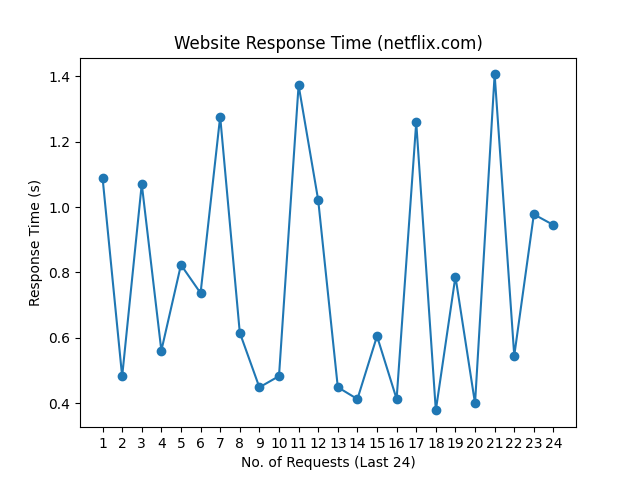
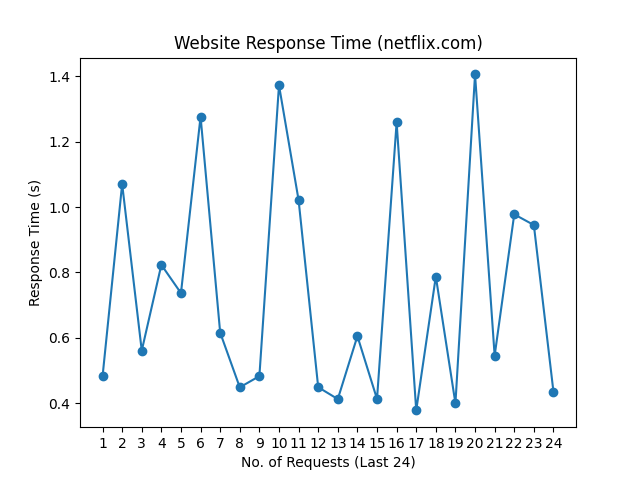
update README.md, history and graph

Changed region(s): [[0.1562, 0.125, 0.875, 0.875]]

diff --git a/README.md b/README.md
@@ -1,10 +1,10 @@
 # Web Monitoring
 
-Last Checked: 12/02/2024 09:00
+Last Checked: 13/02/2024 09:00
 
 | Website | Response Time (s) | Status | Avg Uptime (%) |
 |---------|-------------------|--------|----------------|
 | www.thiswebsiteisdown.net | 0 <br> <img src="graph/thiswebsiteisdown.net.png" alt="Graph" width="200" height="200">  | ❌ Down | 0.00 |
-| www.netflix.com | 0.945224 <br> <img src="graph/netflix.com.png" alt="Graph" width="200" height="200">  | ✅ Up | 100.00 |
-| www.google.com | 0.088514 <br> <img src="graph/google.com.png" alt="Graph" width="200" height="200">  | ✅ Up | 100.00 |
-| www.facebook.com | 0.834667 <br> <img src="graph/facebook.com.png" alt="Graph" width="200" height="200">  | ✅ Up | 100.00 |
+| www.netflix.com | 0.434942 <br> <img src="graph/netflix.com.png" alt="Graph" width="200" height="200">  | ✅ Up | 100.00 |
+| www.google.com | 0.082435 <br> <img src="graph/google.com.png" alt="Graph" width="200" height="200">  | ✅ Up | 100.00 |
+| www.facebook.com | 0.183693 <br> <img src="graph/facebook.com.png" alt="Graph" width="200" height="200">  | ✅ Up | 100.00 |
